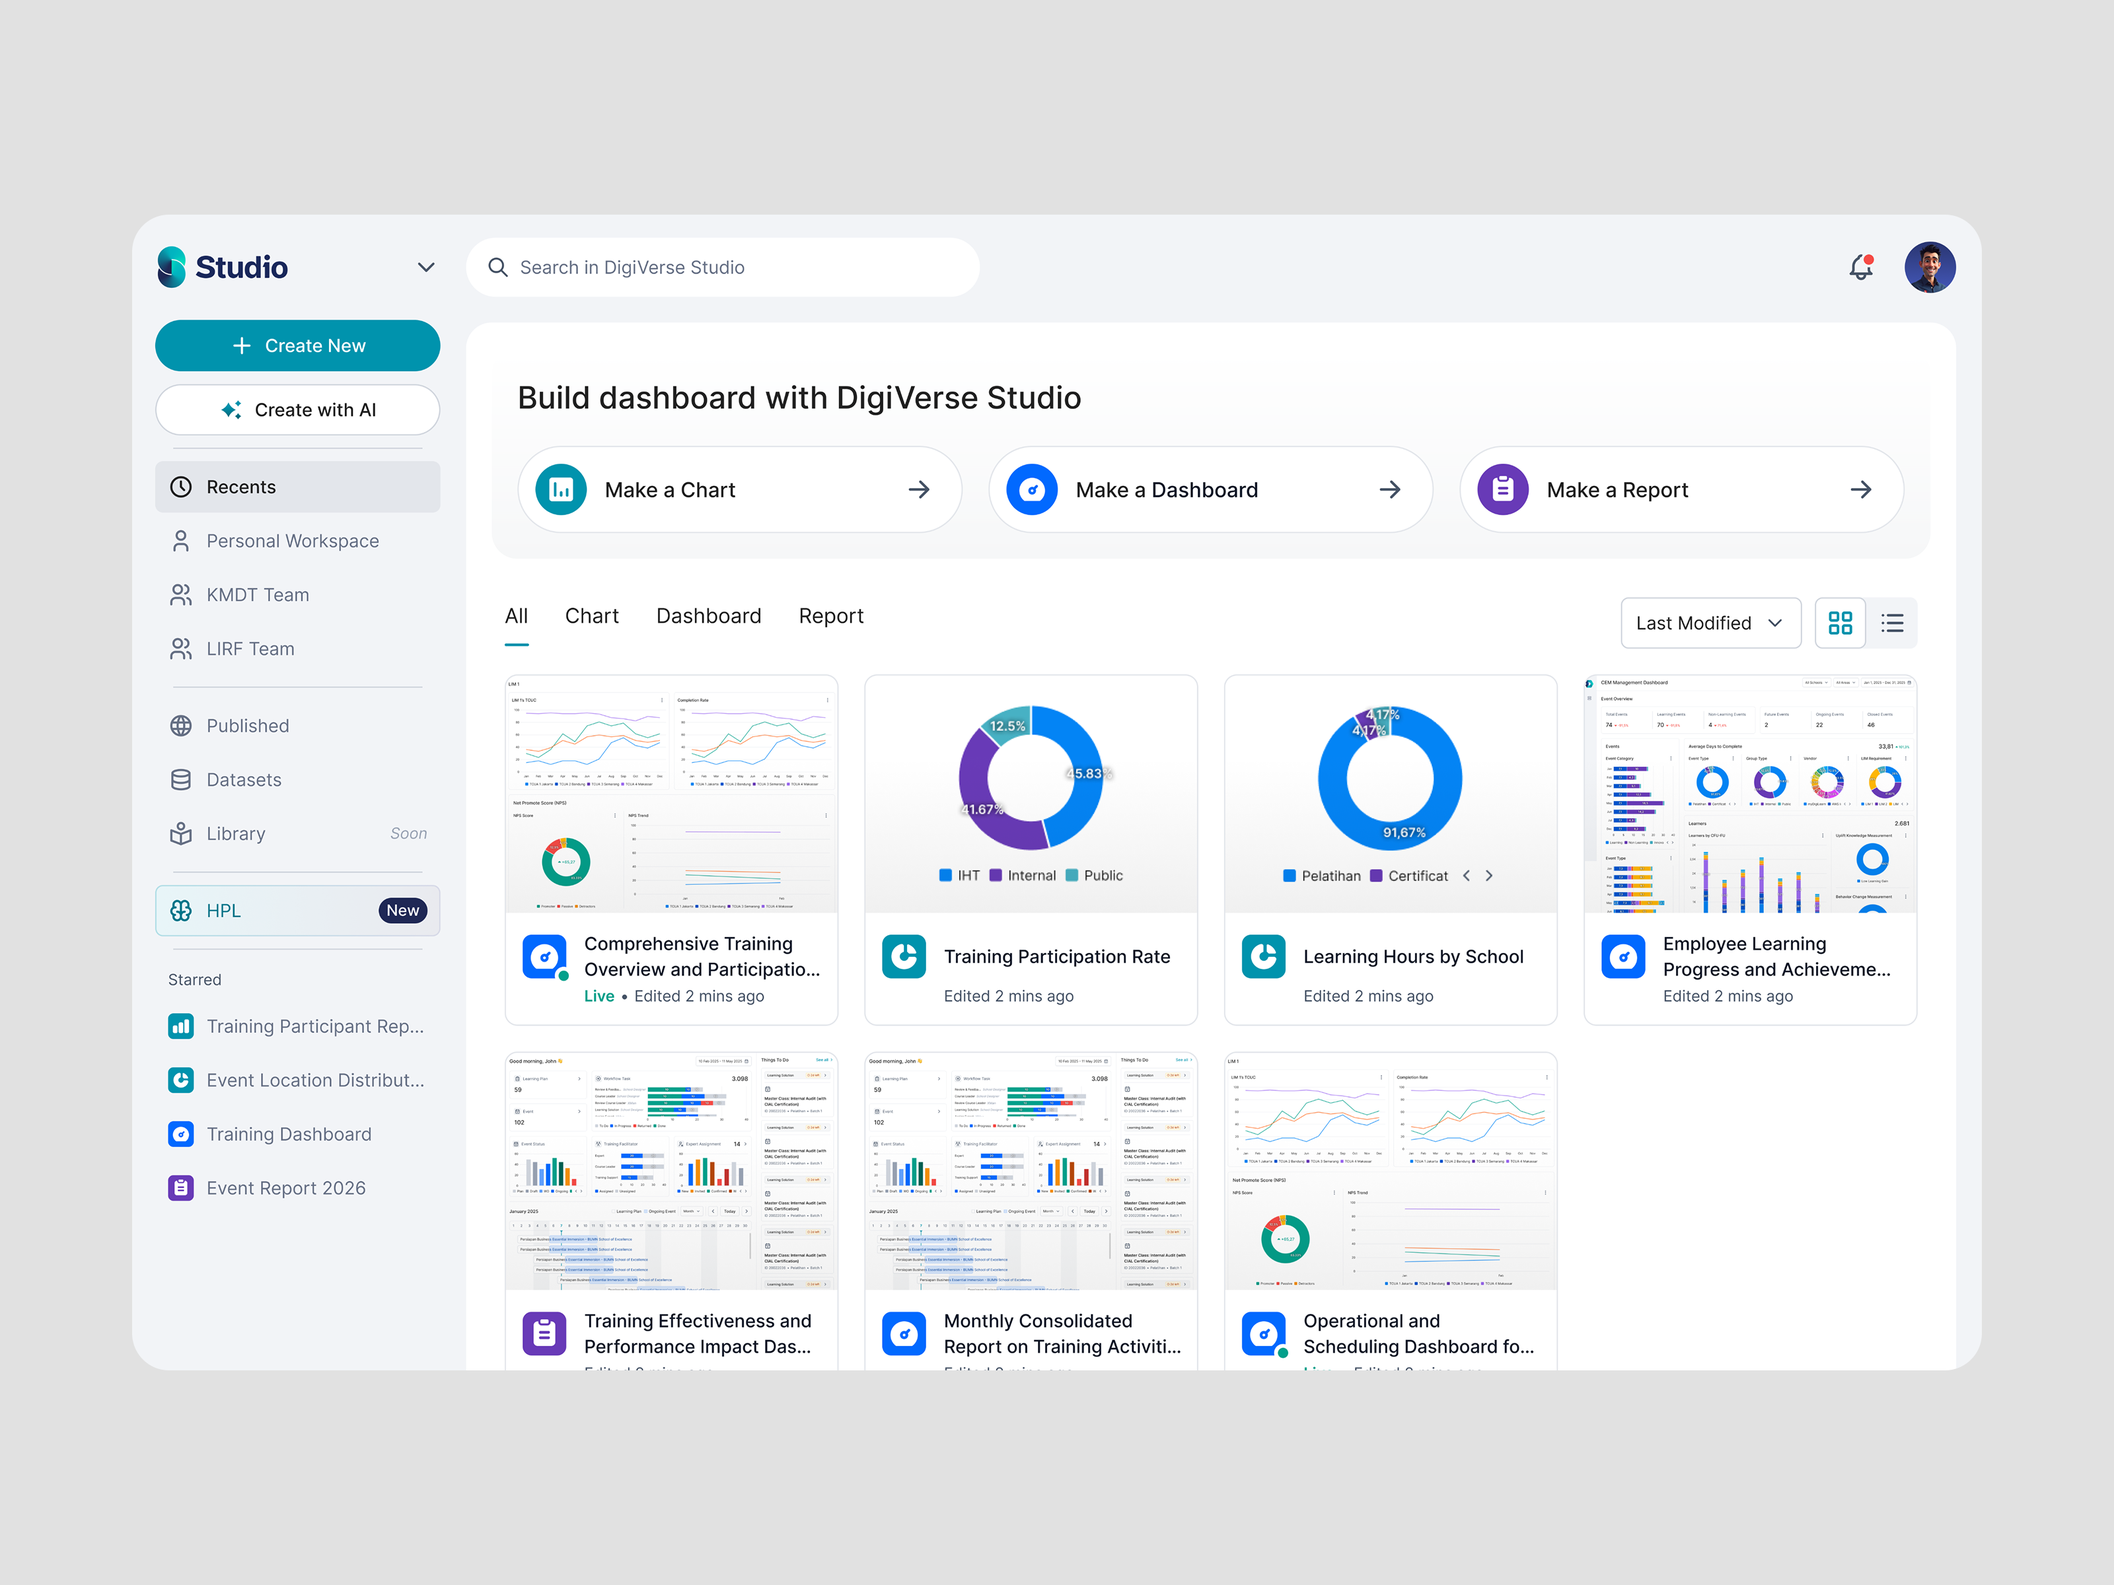
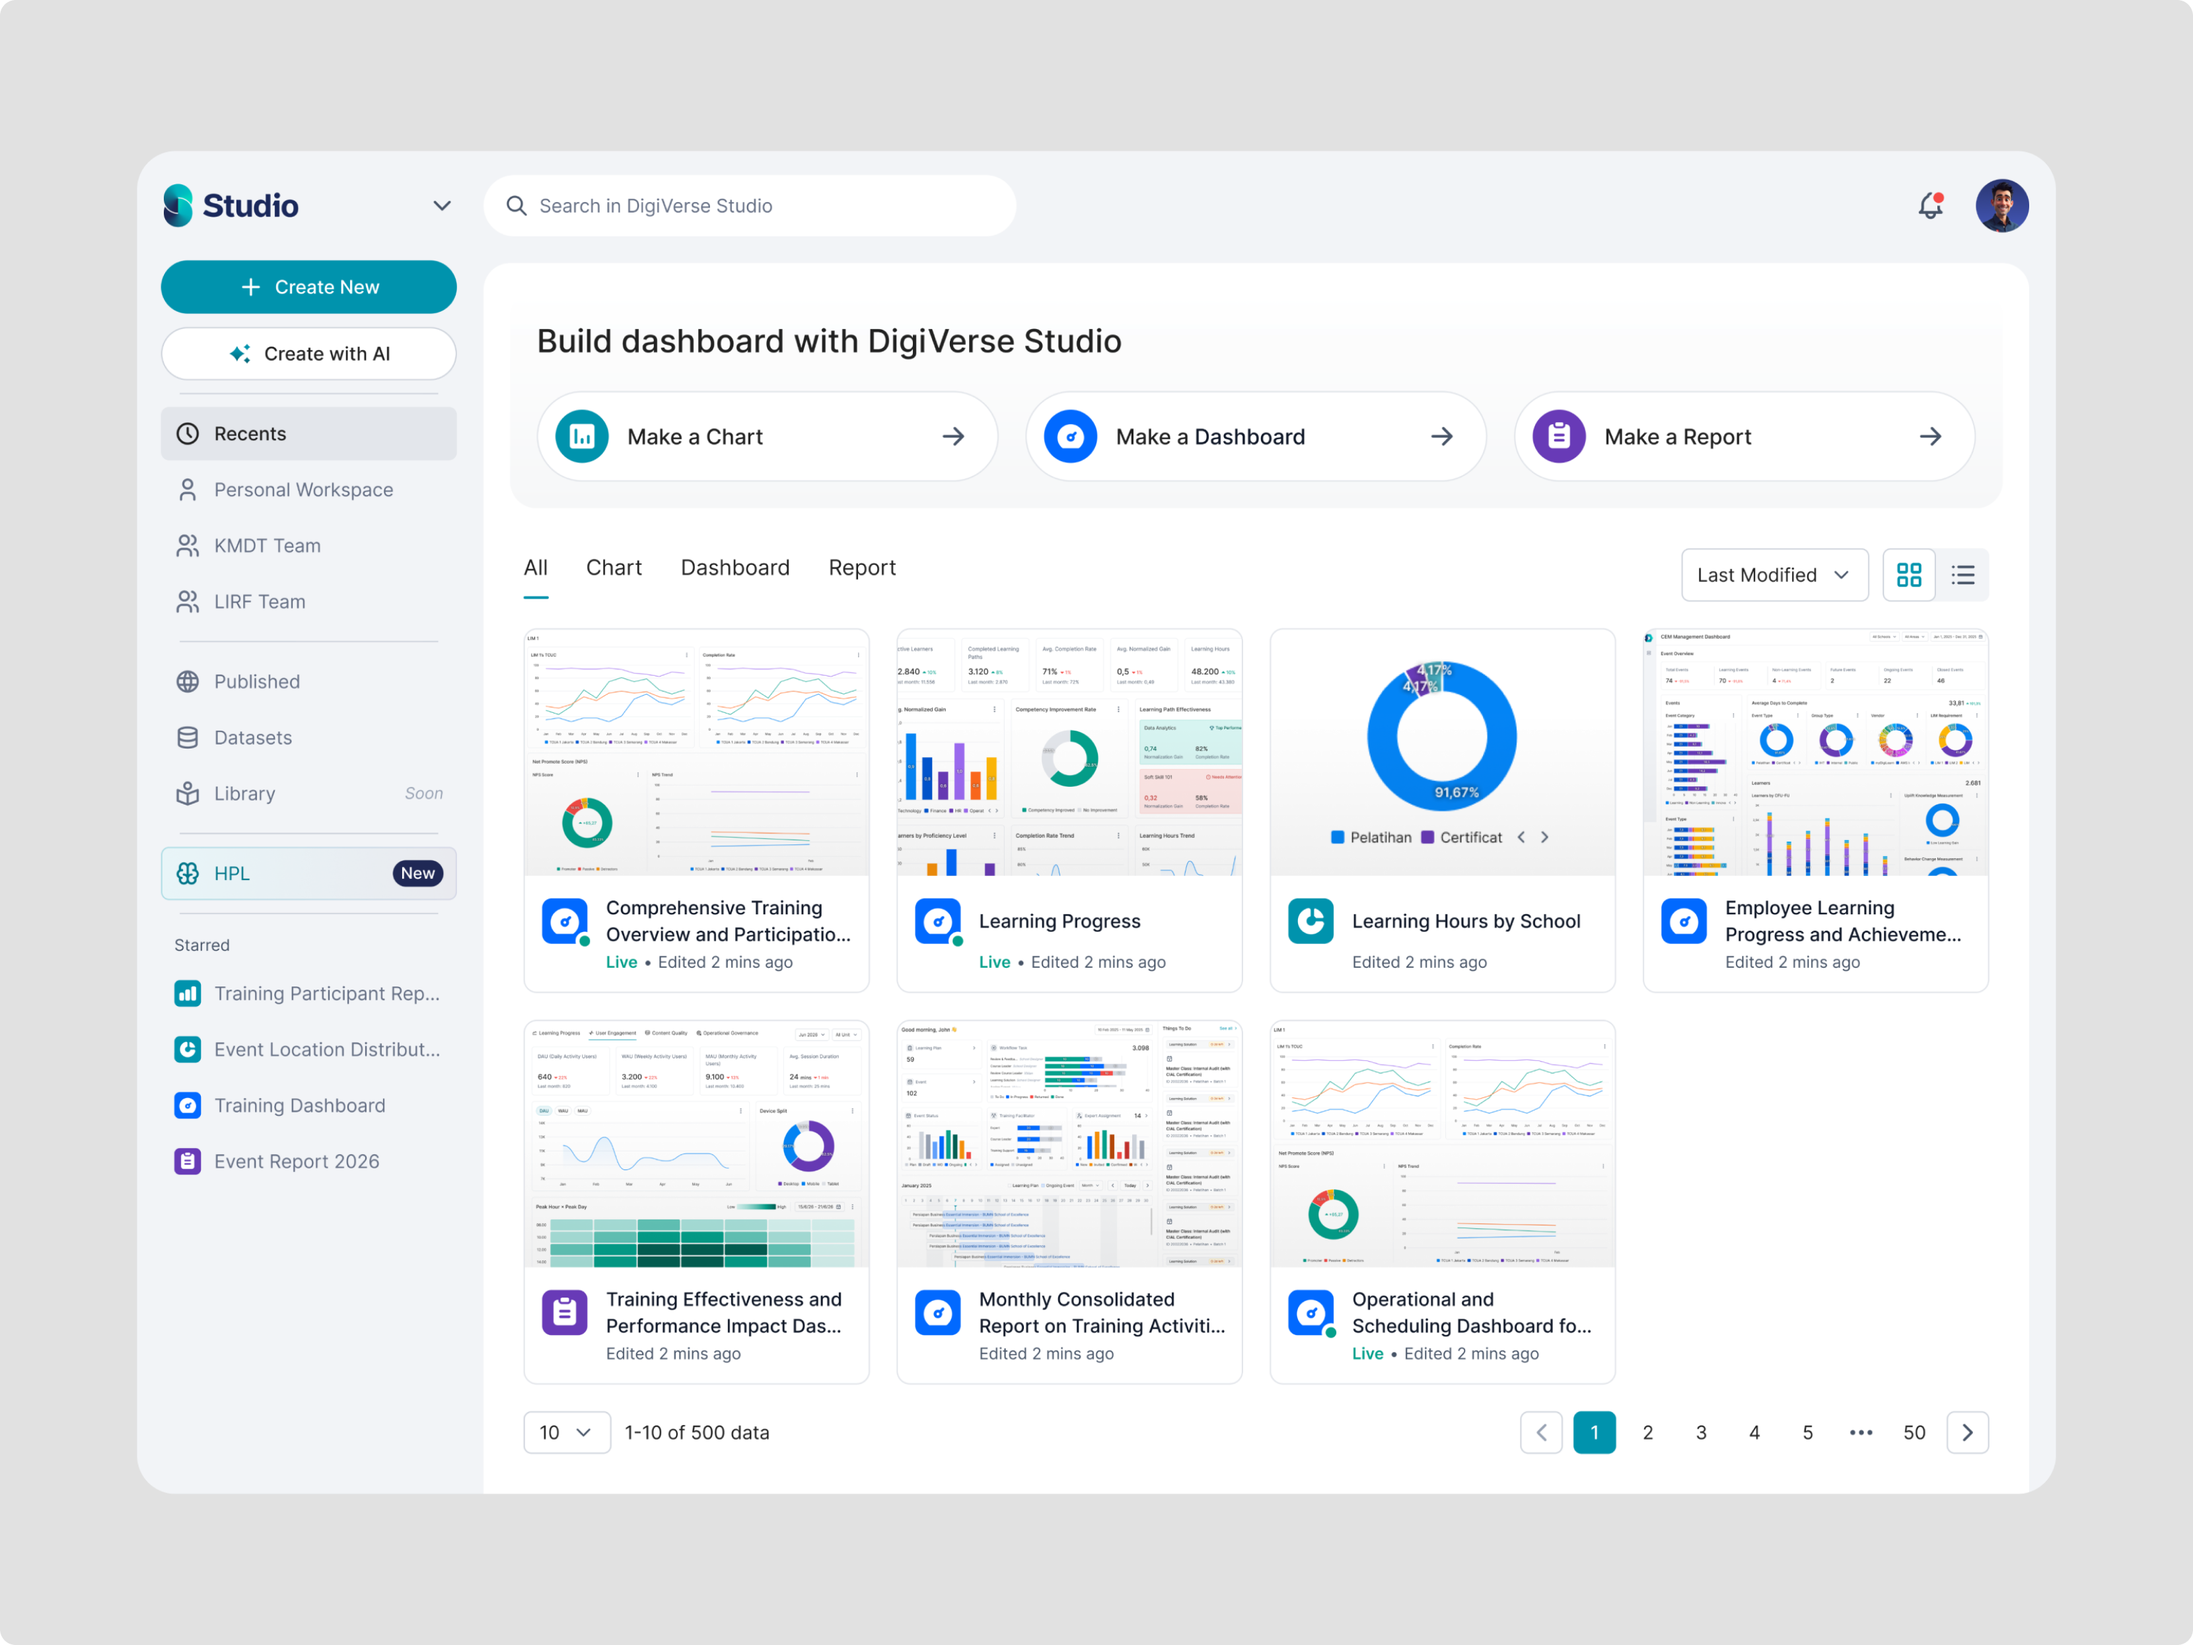
Give Catatmak, DigiVerse and JETT their own case study pages
Each of the three had a hero drawn but no page behind it. They share the
existing case study template, so all three needed was their own record and
a body: the frames give the same divider and the same "coming soon" line,
so they share one story rather than three copies of it.

Having a story is what earns a route, which is what makes their cards
clickable on the landing page and the work index -- no separate flag to
keep in step.

The note's trailing dots run as a progress cycle. They are hidden with
`visibility` rather than faded or retyped: a hidden element keeps its
space, so the centred line does not shift as they come and go, and the
start state is set before the timeline exists so all three do not flash
on arrival.

Also swaps in the DigiVerse thumbnail the frame now carries, exported at
its source resolution rather than the default scale.

diff --git a/src/components/CaseStudy/index.jsx b/src/components/CaseStudy/index.jsx
@@ -62,10 +62,19 @@ const SIDE_PAD_COMPACT_MAX = 53.33
 const TEXT_MAX_TABLET = 500
 
 // The mark on its tile, 686:2845 / 807:817 — the same 56 on both frames.
+// The chip line the Services label is centred against, and the chips' own box.
+const CHIP_H = 34
+
 const NEUTRAL_200 = '#E3E6EB'
 const LABEL_COLOR = 'rgba(0,0,0,0.7)'
 // base/black in the design file — headings sit a shade off pure black.
 const HEADING_COLOR = '#212121'
+
+// The note's dots, as a progress cycle: none, one, two, three, hold, over
+// again. `DOT_STEP` is how long each one waits before the next appears and
+// `DOT_HOLD` how long all three stand before it restarts.
+const DOT_STEP = 0.32
+const DOT_HOLD = 0.5
 
 // Every section sits 100 from its neighbours at 1440 and 80 at 390. The one
 // exception on both frames is a feature note and the screens it introduces:
@@ -105,6 +114,66 @@ function buildRamp({ isDesktop, isTablet }) {
   const sectionGap = isDesktop ? fluidSpace(SECTION_GAP) : scaleCompact(SECTION_GAP_MOBILE)
 
   return { L, T, sidePad, textMax, sectionGap, isDesktop, isTablet }
+}
+
+// 813:22536 — the line a case study carries while its write-up is unwritten.
+// The trailing dots are split off and run as a progress cycle: they arrive one
+// after another, hold, and start over, which is the page saying the writing is
+// still happening rather than that it has stalled.
+//
+// `visibility` rather than opacity or the text itself: a hidden element still
+// takes its space, so the three dots always occupy the same width and the
+// centred line never shifts as they come and go. Fading them in place read as
+// a blink instead of as progress.
+function Note({ text, ui }) {
+  const rootRef = useRef(null)
+  const dotRefs = useRef([])
+
+  const trailing = text.match(/\.+$/)
+  const dots = trailing ? trailing[0] : ''
+  const lead = dots ? text.slice(0, -dots.length) : text
+
+  useLayoutEffect(() => {
+    const marks = dotRefs.current.filter(Boolean)
+    if (!marks.length) return
+    const ctx = gsap.context(() => {
+      // Hidden outright, before the timeline exists. A `set` at position 0
+      // only lands on the timeline's first tick, which is after the first
+      // paint — long enough to flash all three dots on arrival.
+      gsap.set(marks, { visibility: 'hidden' })
+
+      const tl = gsap.timeline({ repeat: -1 })
+      tl.set(marks, { visibility: 'hidden' }, 0)
+      marks.forEach((mark, i) => {
+        tl.set(mark, { visibility: 'visible' }, (i + 1) * DOT_STEP)
+      })
+      // An empty tween, purely to hold the finished line before the cycle
+      // starts over — without it the third dot would vanish the moment it
+      // arrived.
+      tl.to({}, { duration: DOT_HOLD })
+    }, rootRef)
+    return () => ctx.revert()
+  }, [text])
+
+  return (
+    <div
+      ref={rootRef}
+      className="flex flex-col items-center w-full"
+      style={{ maxWidth: CONTENT_MAX, margin: '0 auto', padding: `0 ${ui.sidePad}` }}
+    >
+      <p
+        className="font-light font-['Geist'] text-center"
+        style={{ ...ui.T('body'), color: '#000', width: ui.textMax, maxWidth: '100%' }}
+      >
+        {lead}
+        {dots.split('').map((dot, i) => (
+          <span key={i} ref={(el) => (dotRefs.current[i] = el)}>
+            {dot}
+          </span>
+        ))}
+      </p>
+    </div>
+  )
 }
 
 // One item of body copy: either a run of paragraphs or a numbered list. The
@@ -238,6 +307,12 @@ function StoryBlock({ block, ui }) {
     return <Gallery rows={block.rows} ui={ui} />
   }
 
+  // A single centred line, across the whole content width rather than in one
+  // half of the split the prose blocks use.
+  if (block.type === 'note') {
+    return <Note text={block.text} ui={ui} />
+  }
+
   if (block.type === 'caption') {
     return (
       <SplitRow side="left" ui={ui}>
@@ -352,7 +427,14 @@ export default function CaseStudy({ study }) {
 
   // 686:2907 / 807:829 — a labelled row. Desktop sets the label beside the body
   // in a fixed 100 column; the 390 frame stacks it above instead.
-  const metaRow = (label, children) => (
+  //
+  // `labelBox` is the height the label is centred in, for a row whose body is
+  // taller than a line of type — 824:23539 gives Services a 34 box so the word
+  // sits level with the chips rather than at their top. Desktop only: on the
+  // 390 frame the label is above the chips, where there is nothing to centre
+  // against. A row without it keeps the label at the top, which is right where
+  // the body runs to several lines.
+  const metaRow = (label, children, labelBox) => (
     <div
       className="flex w-full"
       style={{
@@ -360,12 +442,23 @@ export default function CaseStudy({ study }) {
         gap: isDesktop ? L(10) : scaleCompact(10),
       }}
     >
-      <p
-        className="shrink-0 font-medium font-['Geist']"
-        style={{ ...T('body'), width: isDesktop ? L(100) : '100%', color: LABEL_COLOR }}
+      <div
+        className="shrink-0 flex"
+        style={{
+          width: isDesktop ? L(100) : '100%',
+          // Centred only where there is a box to centre in. Left to itself the
+          // wrapper stretches to the row, and centring there would drop the
+          // Role label into the middle of its three lines instead of sitting it
+          // on the first.
+          ...(isDesktop && labelBox
+            ? { height: L(labelBox), alignItems: 'center' }
+            : { alignItems: 'flex-start' }),
+        }}
       >
-        {label}
-      </p>
+        <p className="w-full font-medium font-['Geist']" style={{ ...T('body'), color: LABEL_COLOR }}>
+          {label}
+        </p>
+      </div>
       {children}
     </div>
   )
@@ -423,7 +516,7 @@ export default function CaseStudy({ study }) {
                 className="inline-flex items-center justify-center shrink-0 whitespace-nowrap bg-white text-black font-light font-['Geist']"
                 style={{
                   ...T('chip'),
-                  height: L(34),
+                  height: L(CHIP_H),
                   padding: `0 ${L(12)}`,
                   // A pill, so the corner holds while the box rides the ramp.
                   borderRadius: 30,
@@ -437,7 +530,8 @@ export default function CaseStudy({ study }) {
                 {service}
               </span>
             ))}
-          </div>
+          </div>,
+          CHIP_H
         )}
       </div>
     </div>

diff --git a/src/data/caseStudies.js b/src/data/caseStudies.js
@@ -82,24 +82,27 @@ export const caseStudies = [
   },
   {
     id: 'catatmak',
+    // Figma 813:22486 — the hero of the Catatmak detail page.
     name: 'Catatmak',
-    tagline: 'Lorem ipsum',
-    headline: null,
-    description: 'Lorem ipsum dolor sit amet consectetur. Hendrerit massa id pharetra.',
-    role: null,
-    // Figma 652:1140 — Catatmak carries a single tag.
-    services: ['Mobile App Design'],
+    tagline: 'Financial Tracking App',
+    headline: 'Personal & Business Finance Tracker for Everyday Use',
+    description:
+      'Catatmak is a financial tracking app that comes in two modes: personal for everyday needs including splitting bills with friends, and business for small enterprises that need collaborative bookkeeping across a team.',
+    role: 'UI/UX Designer. Worked within the product team, leading research, user flow, and interface design across both personal and business experiences.',
+    services: ['Mobile App Design', 'Visual Branding'],
     logo: CATATMAK_TILE,
     thumbnail: catatmakThumbnail,
     variant: 'light',
   },
   {
     id: 'digiverse',
+    // Figma 823:23033 — the hero of the DigiVerse Studio detail page.
     name: 'DigiVerse Studio',
-    tagline: 'Lorem ipsum',
-    headline: null,
-    description: 'Lorem ipsum dolor sit amet consectetur. Hendrerit massa id pharetra.',
-    role: null,
+    tagline: 'Business Intelligence Tool',
+    headline: 'Self-Service Data Visualization Platform',
+    description:
+      'DigiVerse Studio is a business intelligence tool within the Telkom Corporate University LMS ecosystem, enabling internal teams to process and visualize data on their own without depending on the technical team.',
+    role: 'UI/UX Designer. Worked within the product team on research, interaction design, and interface systems, while also shaping the product’s visual identity and design language.',
     services: ['Web App Design', 'Visual Branding'],
     logo: DIGIVERSE_TILE,
     thumbnail: digiverseThumbnail,
@@ -107,12 +110,15 @@ export const caseStudies = [
   },
   {
     id: 'jett',
+    // Figma 823:23183 — the hero of the JETT detail page.
     name: 'JETT',
-    tagline: 'Lorem ipsum',
-    headline: null,
-    description: 'Lorem ipsum dolor sit amet consectetur. Hendrerit massa id pharetra.',
-    role: null,
-    services: ['Website Design', 'Interaction Design', 'Visual Branding'],
+    tagline: 'Medical Device Website',
+    headline: 'Marketing Website for a Medical Plasma Device',
+    description:
+      'JETT Plasma is a plasma-based medical device for ophthalmology, dermatology, and aesthetic procedures. This website was designed to introduce the technology to medical practitioners and clinics, and convince them to adopt it.',
+    role: 'UI/UX Designer. Led the project end to end, from research and visual identity through interface design, motion, and front-end development alongside a teammate.',
+    // 823:23302. Three chips, which wrap to two rows against the 350 column.
+    services: ['Website Design', 'Visual Branding', 'Development'],
     logo: JETT_TILE,
     thumbnail: jettThumbnail,
     variant: 'light',

diff --git a/src/data/stories/index.js b/src/data/stories/index.js
@@ -1,8 +1,16 @@
 // A case study's long-form body, keyed by the id in the case-study database.
-// A study with no entry here has a hero and nothing under it.
+// A study with no entry here has no detail page at all: the route falls through
+// and its cards carry no link.
 import retune from './retune'
+import comingSoon from './coming-soon'
 
-export const stories = { retune }
+export const stories = {
+  retune,
+  // Written up to the hero, with the body still to come.
+  catatmak: comingSoon,
+  digiverse: comingSoon,
+  jett: comingSoon,
+}
 
 export function getStory(id) {
   return stories[id] || null

diff --git a/src/data/stories/coming-soon.js b/src/data/stories/coming-soon.js
@@ -1,0 +1,11 @@
+// The body three case studies share while their write-ups are unwritten —
+// Figma 813:22536 (Catatmak), 823:23159 (DigiVerse), 823:23309 (JETT). All
+// three frames carry the same divider and the same line, so they carry the same
+// story rather than three copies of it.
+//
+// It still counts as a story, which is what gives these pages a route and makes
+// their cards clickable on the landing page and the work index.
+export default [
+  { type: 'divider' },
+  { type: 'note', text: 'Coming soon. The designer is still writing...' },
+]
